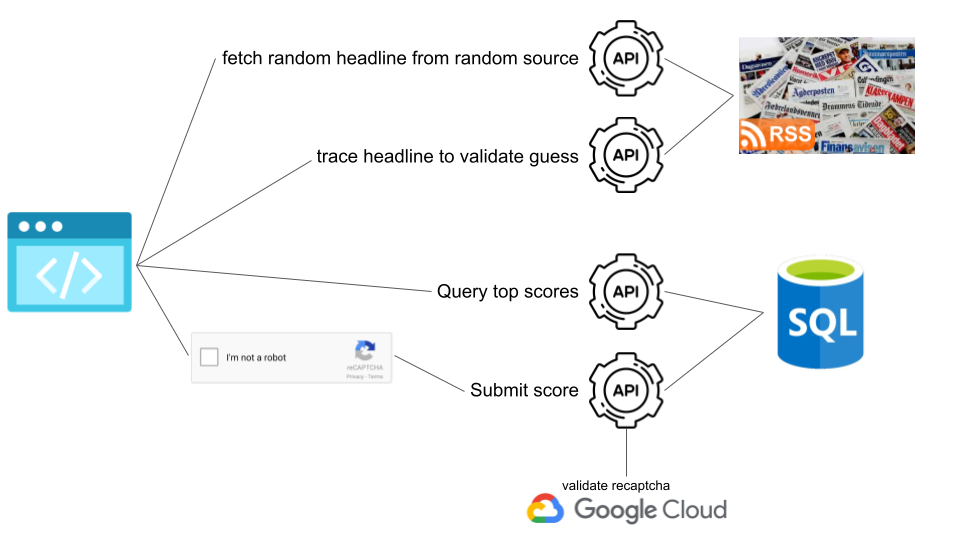
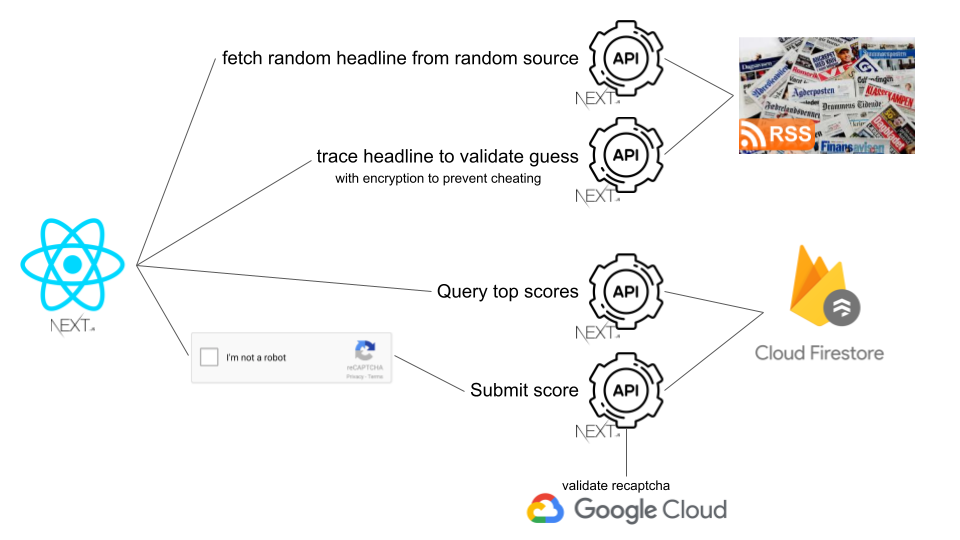
updatereadme

diff --git a/README.md b/README.md
@@ -1,9 +1,13 @@
 Guess Norwegian news sources given the latest top headlines! How biased is the news? Can you differentiate them?
 
 ## Architecture
-Made using next.js in _ evenings:)
+Made using next.js and firebase in 3 evenings:)
 ![architecture](readme_images/architecture.png?raw=true)
 
 ## Demo
+![frontpage](readme_images/frontpage.png?raw=true)
+![quiz](readme_images/quiz.png?raw=true)
+![result](readme_images/result.png?raw=true)
+![scoreboard](readme_images/scoreboard.png?raw=true)
 
 <!-- https://www.google.com/recaptcha/admin/site/511816754 -->
